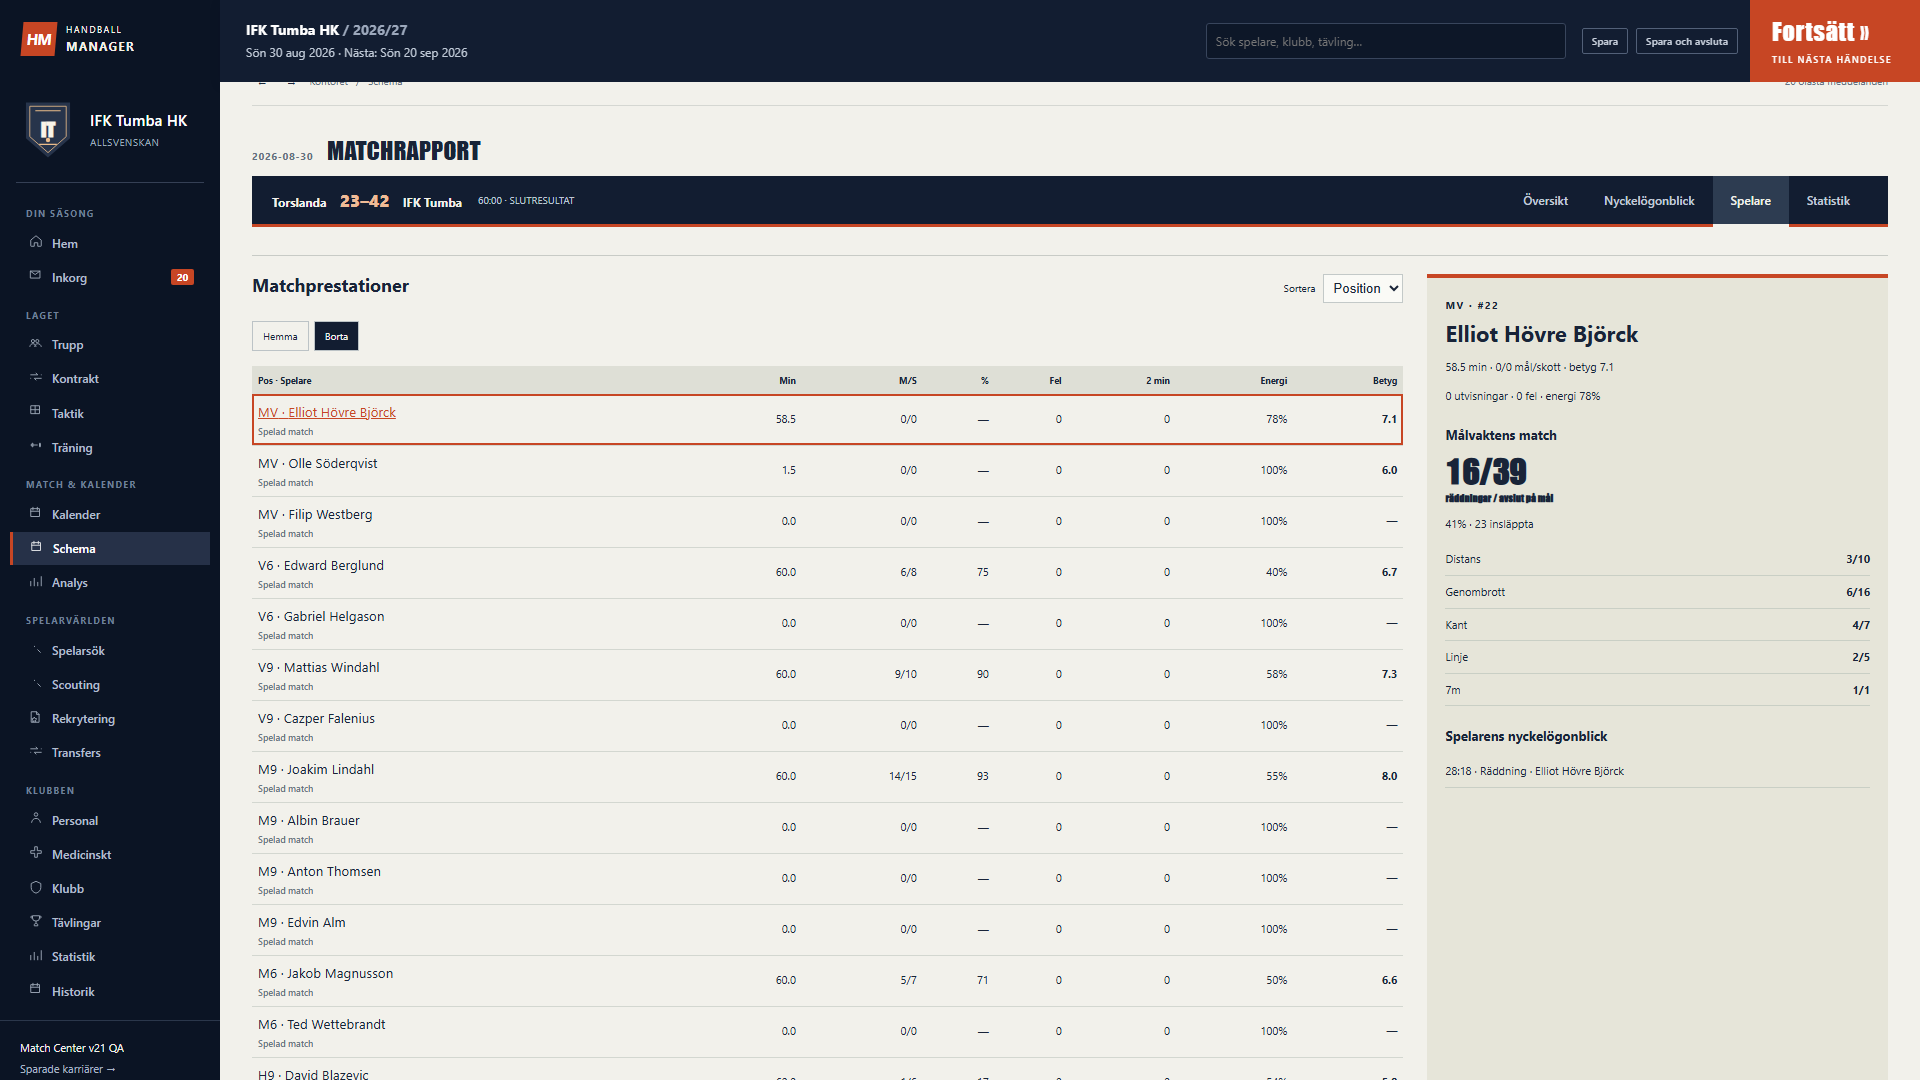
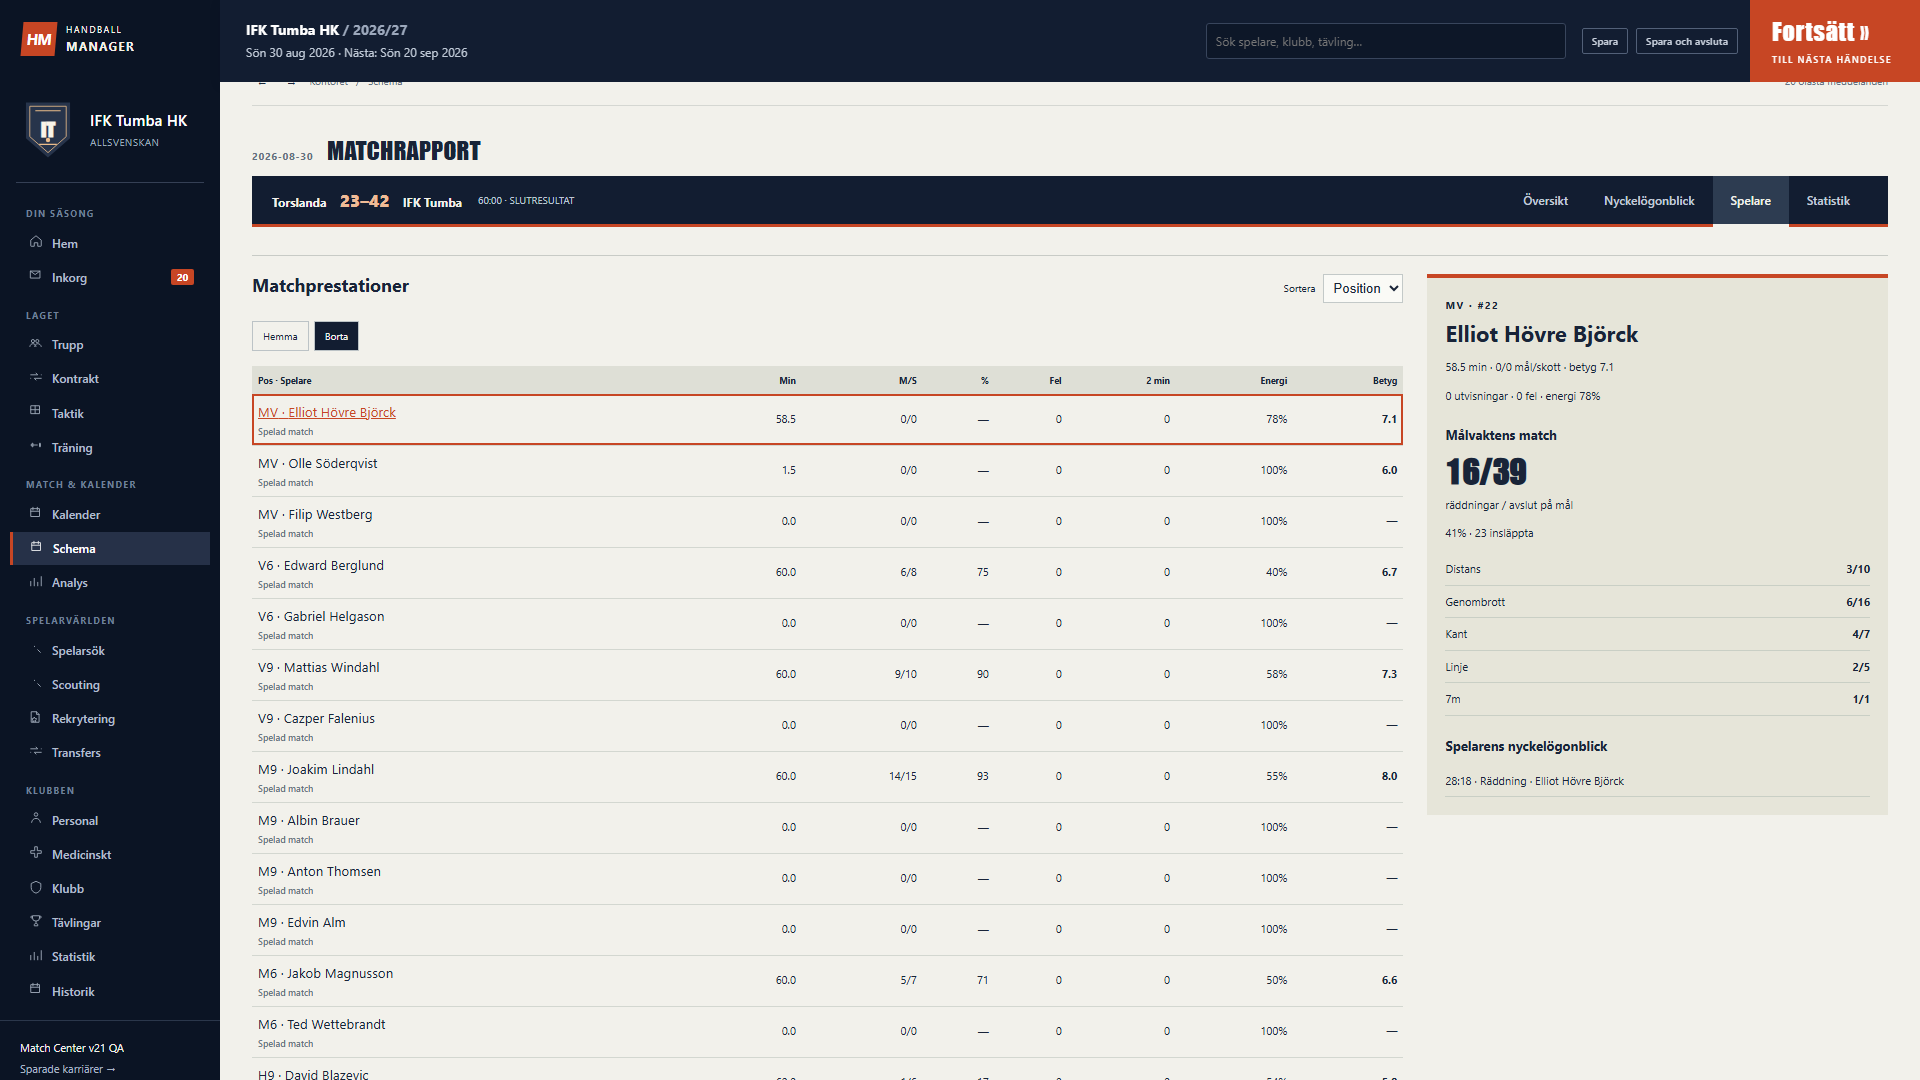
docs(game): refresh final Match Center v2.1 visual acceptance receipts

Changed region(s): [[0.75, 0.4583, 0.8125, 0.6417], [0.75, 0.6722, 0.8438, 0.7333], [0.9375, 0.5194, 0.9688, 0.5806]]

diff --git a/docs/match-center-v21/REPORT.md b/docs/match-center-v21/REPORT.md
@@ -25,7 +25,7 @@ Starting checkpoint: `038f15ec560e880e13139b25d7d878e3cf1eda13`. Date: 2026-10-1
 21. **Filters.** Alla, Mål, Räddningar, Genombrott, Omställning, 7m and Försvar use actual event types, shot categories and phase. Empty unsupported categories are omitted.
 22. **Players.** Dedicated dense home/away workspace: registered position, name, minutes, goals/shots, conversion, recorded errors, suspensions, energy and existing rating.
 23. **Sorting.** Position by default; rating, goals, shots, minutes and energy available. Filtering creates a new collection; sorting never mutates match truth.
-24. **Dossier.** Player selection opens compact local match detail, shot categories, discipline, energy and directly involved canonical moments. Live eligible players offer the existing substitution action.
+24. **Dossier.** Player selection opens compact local match detail, shot categories, discipline, energy and directly involved canonical moments. Its surface follows its contents instead of stretching to the table height. Live eligible players offer the existing substitution action.
 25. **Keeper detail.** Saves/faced, save percentage, conceded goals and actual category breakdown. Denominator remains saves plus conceded goals; blocks and misses are excluded.
 26. **Statistics.** Selected analysis areas: Match & positioner, Avslut, Målvakter, Matchutveckling. Only selected expensive analysis mounts.
 27. **Shot map.** Exact team/player/outcome filters with explicit accessible labels. Larger labelled markers, Swedish tooltips, coordinate-gap counts, compact court and adjacent category summary. Category counts explicitly describe the filtered selection.
@@ -48,7 +48,7 @@ Starting checkpoint: `038f15ec560e880e13139b25d7d878e3cf1eda13`. Date: 2026-10-1
 44. **Browser QA.** Playwright's installed Chromium exercised a new normal career: live play, substitution, tactical instruction, timeout, save/reload, halftime, finish, archive review, filters, keyboard and reduced motion. Remaining review resumed from that browser's own completed career; live simulation was not repeated to resolve review assertions.
 45. **Screenshots.** Curated evidence lives in [screenshots](screenshots). Raw additional widths and browser evidence remain locally under the ignored verification directory. Screenshots document automated QA, not user acceptance.
 46. **Accessibility.** Native buttons/selects, roving tab focus, ArrowLeft/Right and Home/End, selected states, panel relationships, visible focus, skip link, labelled charts, text roles and reduced motion verified. No color-only tactical meaning.
-47. **Performance.** Selective views avoid eagerly mounting every court/map/table. Across 26 archives, derived overview/preview/sort work averaged 0.184 ms per iteration (range 0.067–0.323 ms); this excludes projection and browser painting. Browser clicks reached the next frame with the requested view selected in 12–19.7 ms across four samples. These are local samples, not an FPS guarantee.
+47. **Performance.** Selective views avoid eagerly mounting every court/map/table. Across 26 archives, derived overview/preview/sort work averaged 0.184 ms per iteration (range 0.067–0.323 ms); this excludes projection and browser painting. Four browser click-to-frame samples verify that the requested view is selected; see [BROWSER-QA.json](BROWSER-QA.json). These are local samples, not an FPS guarantee.
 48. **Focused tests.** 68/68 passed: existing canonical integration, save/load, archive, snapshot and command contracts plus workspace truth, sorting, filters, semantic rendering and unsupported-evidence cases.
 49. **Full game.** 2,374/2,374 passed across all 217 canonical test files, once. Readers/domain: 2,211 cases; isolated filesystem/editor: 163. Final focused suite additionally verifies later presentation-only polish. No broad regression rerun.
 50. **V2/core status.** Retained the completed Intelligence v1 core/game receipts and Match Center v2 deterministic full-match proof. Engine, command/control and archive source hashes are unchanged, so the expensive frozen engine cohorts were not rerun.
@@ -56,7 +56,7 @@ Starting checkpoint: `038f15ec560e880e13139b25d7d878e3cf1eda13`. Date: 2026-10-1
 52. **Build.** Isolated `.next-game-match-center-v21` production build passed, including TypeScript and all 48 static pages. The final server uses this output; 3014 remains available for comparison.
 53. **Statistical drift.** Preserved and displayed truthfully. The browser example ended Torslanda 23–42 IFK Tumba, including Simon Larsson 4/46 saves. Post-Intelligence empirical reconciliation remains a separate future task.
 54. **Limitations.** Human acceptance remains pending. Tactical depth is limited by existing events/frames; no unsupported help/recovery/space attribution is invented. Current event collections use bounded scrolling rather than virtualization. Tables may need horizontal scrolling within their own container at smaller widths. Motion-lab remains untouched.
-55. **Local commits.** Implementation `9828830`; shot analysis polish `1269b3a`; closing QA/proof/documentation commit. [VERIFICATION.json](VERIFICATION.json) records the source checkpoint and checks. All are local.
+55. **Local commits.** Implementation `9828830`; shot analysis polish `1269b3a`; canonical/browser QA closeout `bc833a9`; dossier readability `7652d79`; final receipt refresh. [VERIFICATION.json](VERIFICATION.json) records the source checkpoint and checks. All are local.
 56. **Final git state.** Only the initial unrelated user state remains: modified `apps/game/app/match-qa/page.tsx`, `apps/game/lib/matchQa/qaHarness.ts`, `apps/game/scripts/season-audit.ts`; untracked `.claude/`, `apps/game/.tmp-final-benchmark.ts`, `docs/audit/`.
 57. **Motion/stashes.** Motion worktree remains at `197d2a80ecea3b70efdcf8ef347cfc68e0e86b2b` with its existing untracked `.claude/`. Both WIP stash hashes remain unchanged; see preservation receipt.
 58. **Push.** **NOTHING WAS PUSHED.**
